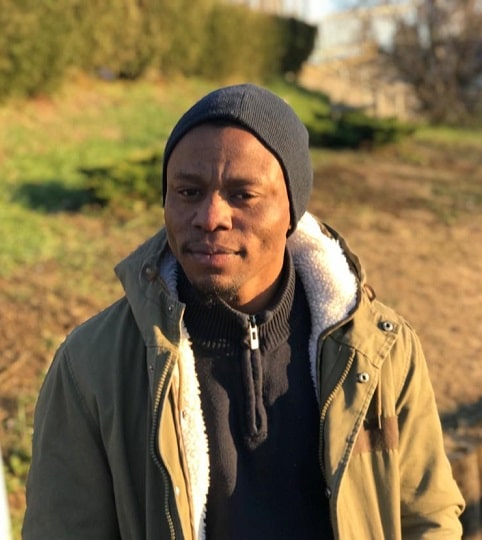
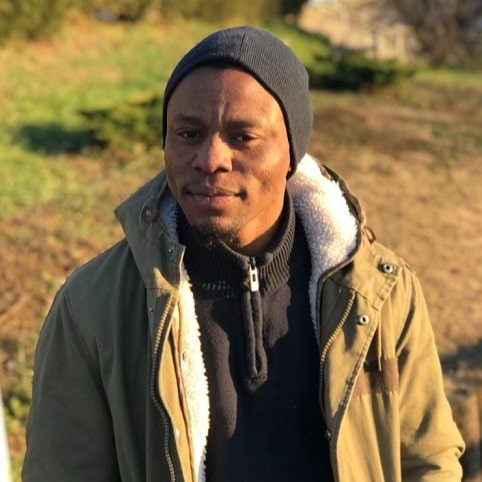
Reshaped the Mobile About Profile Pic

diff --git a/index.html b/index.html
@@ -186,7 +186,7 @@ font-family: 'Neonderthaw', cursive;
           </p>
         </div>
         <div class="slide-img">
-          <img src="./img/testimonials/Jason-min.jpg" alt="">
+          <img src="./img/testimonials/Jason1-min.jpg" alt="">
         </div>
       </div> 
       <div class="slide slide-3">
@@ -233,9 +233,9 @@ font-family: 'Neonderthaw', cursive;
           Top Rated Real Estate Agent
         </h2>
         <p class="pedigree">
-          Award-winning Realtor, Timi, is leading agents in the economic real estate industry. Featuring active land listings and having closed over #15.5 million in landed plots alone. 
+          Award-winning Realtor Timi, is leading investors in the economic real estate industry. Featuring active land listings and having closed over #15.5 million in landed plots alone. 
           <br>
-          The Real Estate Diva specializes in exclusive representation and offer of choice properties, land and development opportunities and architecturally significant properties across Port-Harcourt and the Nation. 
+          The Real Estate Diva specializes in exclusive representation and offer of choice properties, land, development opportunities and architecturally significant assets across Port-Harcourt and the Nation. 
           <!-- With years of experience, impressive property portfolio, celebrity clientele, and unparalleled knowledge of the market and pedigree estates, Real Estate Deeva’s estimable business is sophisticated and renowned. -->
         </p>
       </div>

diff --git a/deeva.css b/deeva.css
@@ -687,10 +687,10 @@ section{
 }
 .testimonial .slide-img{
   width: 100%;
-  height: 100%;
+  height: 100%; 
   margin: 0 auto;
-  padding: 40px;
-  background: url(./img/testimonials/pattern-bg.svg) no-repeat center / contain;
+  padding: 50px;
+  background: url(./img/testimonials/pattern-bg.svg) no-repeat center / contain; 
 }
 .testimonial .slide-img img{
   height: 100%;
@@ -834,7 +834,7 @@ section{
   max-width: 400px;
   height: 500px;
   border-radius: 15px; 
-  overflow: hidden;
+  overflow: hidden; 
 }
 .about img{ 
   width: 100%;
@@ -863,6 +863,12 @@ section{
     line-height: 1.55;
     text-align: center;
     font-size: 0.95rem;
+  }
+  .about .profile-pic{
+    max-width: 400px;
+    height: 320px;
+    border-radius: 15px; 
+    overflow: hidden; 
   }
 }
 
